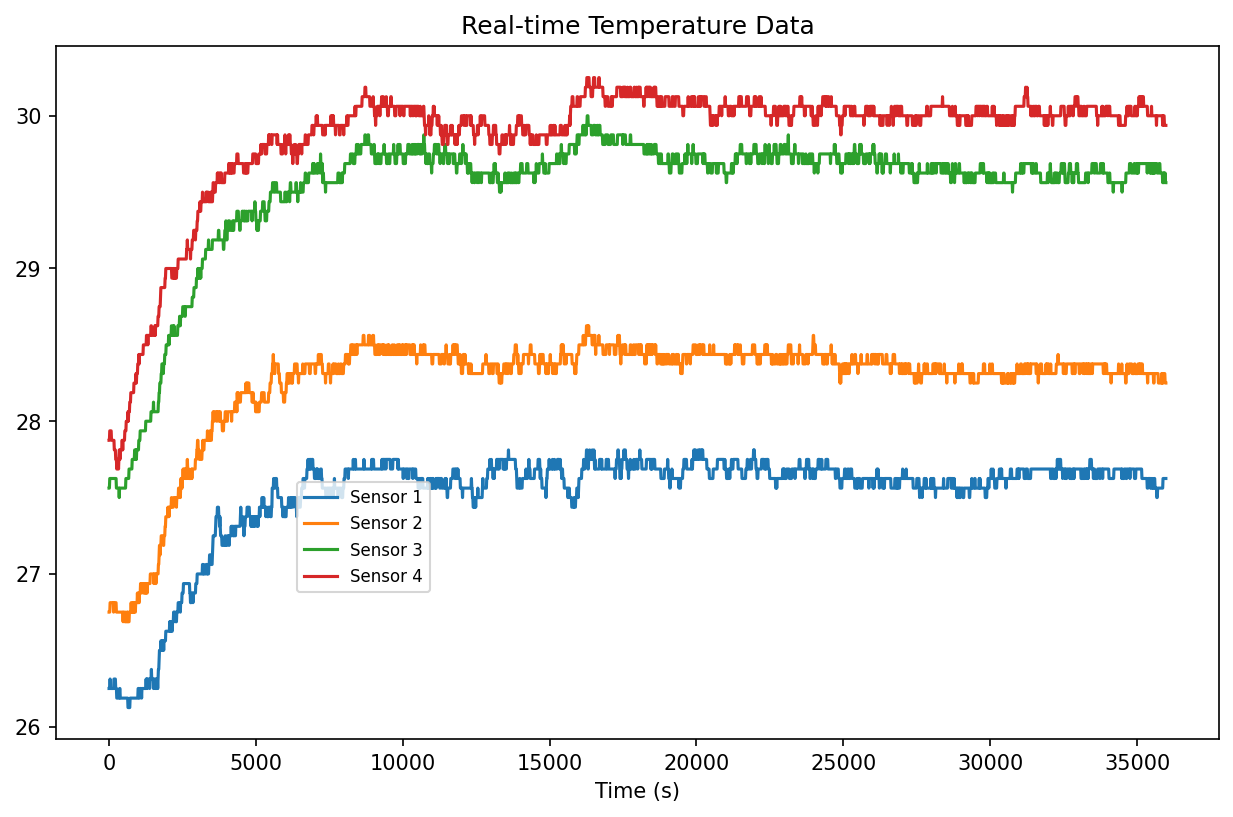
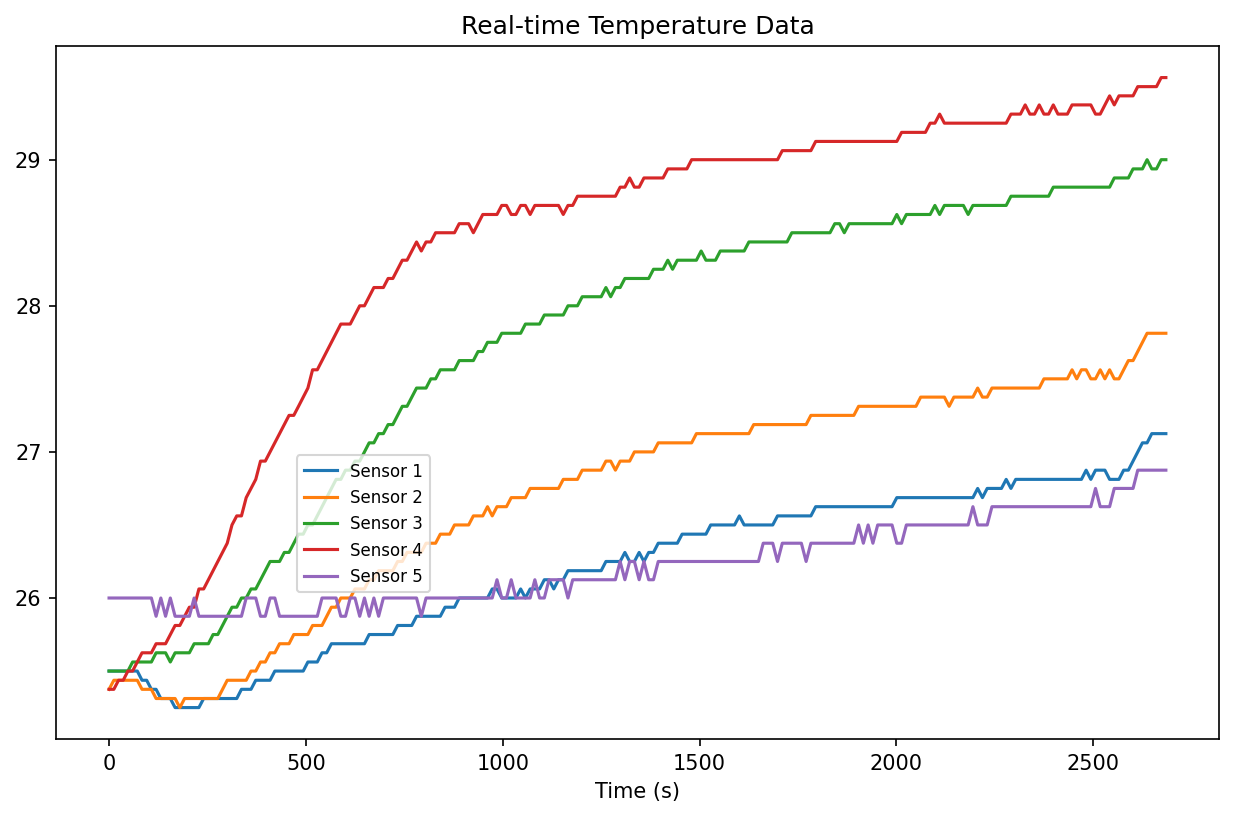
updates

diff --git a/example_scripts/new_temp_controller.py b/example_scripts/new_temp_controller.py
@@ -21,9 +21,9 @@ DURATION = 36000  # seconds
 def main():
     # Set up the plot
     times = []
-    temperature = [[] for _ in range(4)]
+    temperature = [[] for _ in range(5)]
     fig, ax = plt.subplots(figsize=(10, 6))
-    lines = [ax.plot([], [], label=f'Sensor {i+1}')[0] for i in range(4)]
+    lines = [ax.plot([], [], label=f'Sensor {i+1}')[0] for i in range(5)]
     ax.set_xlabel('Time (s)')
     ax.set_title('Real-time Temperature Data')
     ax.legend(loc=3, fontsize=8, bbox_to_anchor=(0.2, 0.2))
@@ -36,6 +36,7 @@ def main():
         # Plotting
         times.append(elapsed)
         temps = bioreactor.get_vial_temp()
+        temps.append(bioreactor.get_ambient_temp())
         for i, temp in enumerate(temperature):
             temp.append(temps[i])
         for i, line in enumerate(lines):
